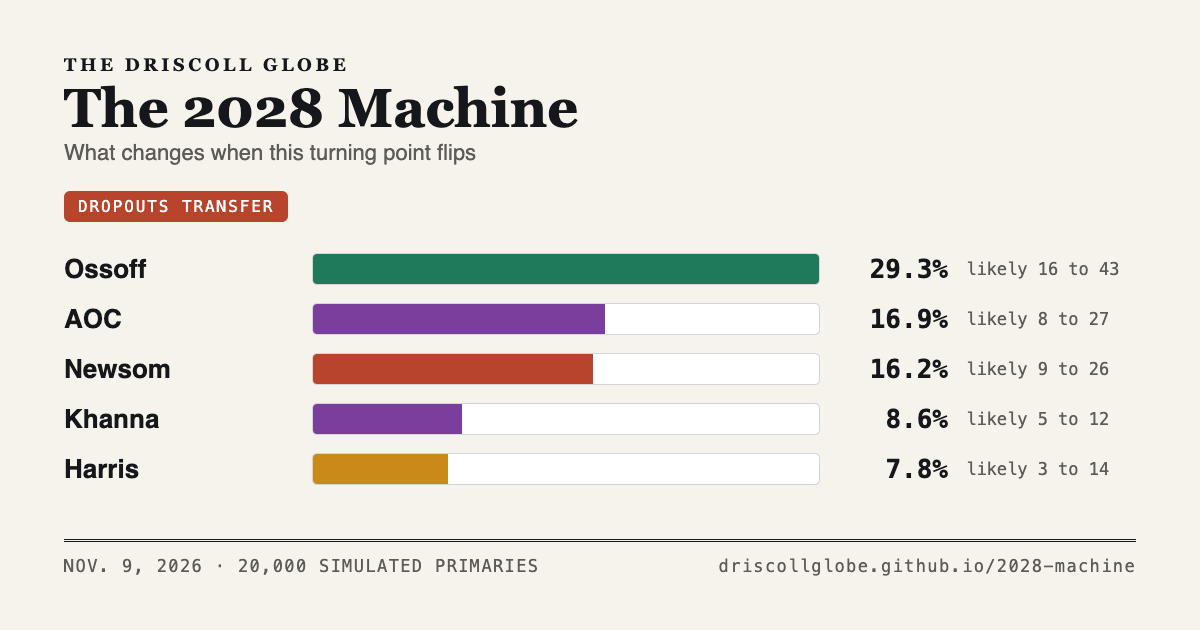
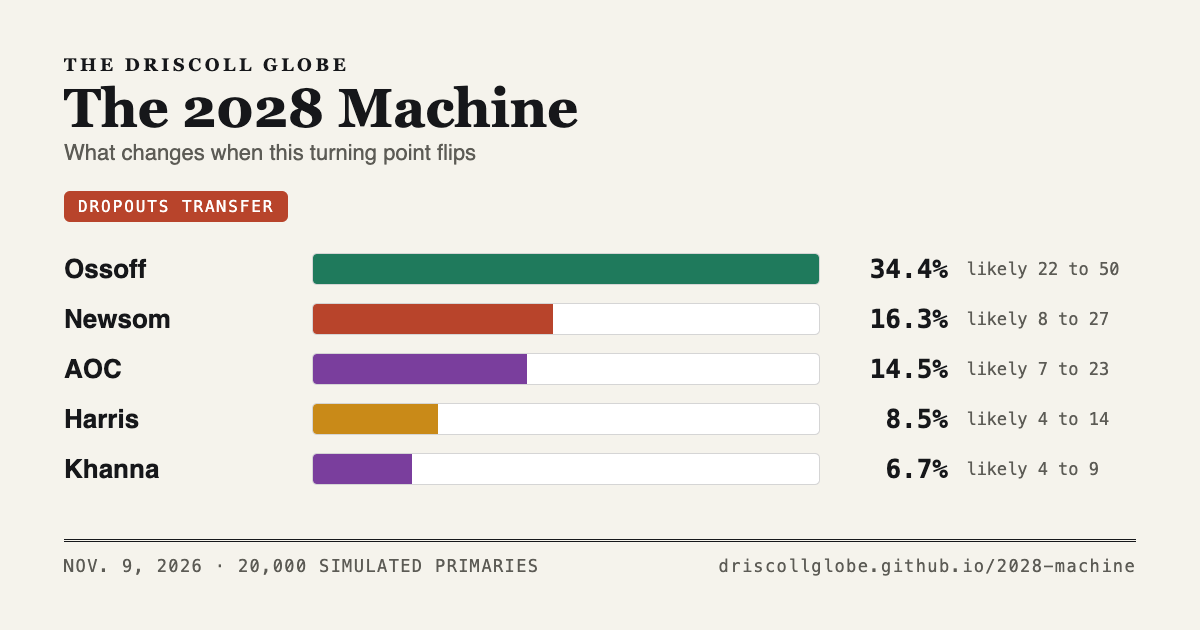
Regenerate default, heatmap, rankings, cards, desk note and methodology after phase 2; STATUS
Final 2026-11-09 run on the whole stack: AOC 24.1 (likely 14 to 35), Ossoff 23.7 (13 to 37),
Newsom 18.6 (8 to 32), Khanna 7.8 (6 to 10), Harris 5.7 (3 to 10); convention 11.2. The reader
sentence for 2026-11-09 in notes/changes.json now covers the ranges. history.csv is left to the
nightly run, which should carry a note.

diff --git a/methodology.html b/methodology.html
@@ -117,7 +117,7 @@ a{color:var(--accent);}
 
 <h2 id="ranges">How sure the model is</h2>
 <p>Our own estimates are guesses. How strong each candidate starts and how big each pool of voters is come from reporting and judgment, not from data, so the model does not treat them as known. Every run redraws them. Each candidate's starting strength is multiplied by a random factor centered on 1, where one standard deviation is 30 percent up or down. Each pool's share of the electorate gets its own factor of the same size, and the pools are rescaled so they still add to 100. The market prices are never redrawn.</p>
-<p>Runs come in batches of 100 that share one draw. Each batch gives every candidate a share of first-place finishes, so 20,000 runs give 200 shares. The range under the headline and beside each bar runs from the 10th to the 90th of those, after taking out the coin-flip noise that any 100 races carry on their own. Read "Ossoff 24%, likely 13 to 40" as: our best number is 24, and if our estimates of the candidates are off by the amount we think they could be, he lands between 13 and 40 eight times in ten.</p>
+<p>Runs come in batches of 100 that share one draw. Each batch gives every candidate a share of first-place finishes, so 20,000 runs give 200 shares. The range under the headline and beside each bar runs from the 10th to the 90th of those, after taking out the coin-flip noise that any 100 races carry on their own. On the Nov. 9, 2026 run the page reads "AOC 24%, likely 14 to 35." Read that as: our best number is 24, and if our estimates of the candidates are off by the amount we think they could be, she lands between 14 and 35 eight times in ten. Ossoff, at 24 and likely 13 to 37, is inside that range, so the model can't tell you which of them leads.</p>
 <p>The model gets more certain as South Carolina nears, and it does this on purpose: each morning it allows fewer surprise events and redraws our estimates of the candidates less, until on the eve of the first primary those draws are a third as wide as they are today.</p>
 
 <h2 id="longshot">Correcting the market prices</h2>

diff --git a/share/iowa.html b/share/iowa.html
@@ -4,7 +4,7 @@
 <meta charset="utf-8">
 <title>The 2028 Machine: Iowa crashes the window</title>
 <meta property="og:title" content="The 2028 Machine: Iowa crashes the window">
-<meta property="og:description" content="Iowa crashes the window: AOC 26.8% (likely 16 to 37), Buttigieg 14.3% (likely 8 to 21), Khanna 13.6% (likely 10 to 18), Newsom 12.5% (likely 5 to 23), Ossoff 10.0% (likely 5 to 18) (Nov. 9, 2026).">
+<meta property="og:description" content="Iowa crashes the window: AOC 27.7% (likely 19 to 38), Buttigieg 15.0% (likely 8 to 23), Newsom 13.2% (likely 6 to 23), Khanna 12.5% (likely 9 to 16), Ossoff 10.5% (likely 5 to 18) (Nov. 9, 2026).">
 <meta property="og:type" content="website">
 <meta property="og:url" content="https://driscollglobe.github.io/2028-machine/share/iowa.html">
 <meta property="og:image" content="https://driscollglobe.github.io/2028-machine/cards/iowa.png">

diff --git a/share/approval.html b/share/approval.html
@@ -4,7 +4,7 @@
 <meta charset="utf-8">
 <title>The 2028 Machine: Trump approval high</title>
 <meta property="og:title" content="The 2028 Machine: Trump approval high">
-<meta property="og:description" content="Trump approval high: Ossoff 29.1% (likely 17 to 42), Newsom 24.1% (likely 13 to 35), AOC 12.5% (likely 5 to 21), Harris 6.9% (likely 3 to 13), Buttigieg 5.3% (likely 3 to 9) (Nov. 9, 2026).">
+<meta property="og:description" content="Trump approval high: Ossoff 30.9% (likely 19 to 43), Newsom 24.5% (likely 14 to 37), AOC 11.8% (likely 5 to 19), Harris 7.3% (likely 3 to 12), Buttigieg 5.7% (likely 3 to 9) (Nov. 9, 2026).">
 <meta property="og:type" content="website">
 <meta property="og:url" content="https://driscollglobe.github.io/2028-machine/share/approval.html">
 <meta property="og:image" content="https://driscollglobe.github.io/2028-machine/cards/approval.png">

diff --git a/share/calendar.html b/share/calendar.html
@@ -4,7 +4,7 @@
 <meta charset="utf-8">
 <title>The 2028 Machine: NH jumps the line</title>
 <meta property="og:title" content="The 2028 Machine: NH jumps the line">
-<meta property="og:description" content="NH jumps the line: AOC 25.7% (likely 16 to 36), Newsom 15.4% (likely 7 to 27), Ossoff 14.6% (likely 7 to 24), Buttigieg 11.3% (likely 6 to 18), Khanna 10.3% (likely 8 to 13) (Nov. 9, 2026).">
+<meta property="og:description" content="NH jumps the line: AOC 27.1% (likely 17 to 38), Ossoff 15.7% (likely 8 to 25), Newsom 15.3% (likely 7 to 25), Buttigieg 10.7% (likely 7 to 15), Khanna 9.5% (likely 7 to 12) (Nov. 9, 2026).">
 <meta property="og:type" content="website">
 <meta property="og:url" content="https://driscollglobe.github.io/2028-machine/share/calendar.html">
 <meta property="og:image" content="https://driscollglobe.github.io/2028-machine/cards/calendar.png">

diff --git a/share/coordfail.html b/share/coordfail.html
@@ -4,7 +4,7 @@
 <meta charset="utf-8">
 <title>The 2028 Machine: Coordination fails</title>
 <meta property="og:title" content="The 2028 Machine: Coordination fails">
-<meta property="og:description" content="Coordination fails: AOC 25.2% (likely 15 to 36), Ossoff 22.1% (likely 10 to 38), Newsom 17.4% (likely 7 to 30), Khanna 9.8% (likely 8 to 13), Harris 4.8% (likely 2 to 9) (Nov. 9, 2026).">
+<meta property="og:description" content="Coordination fails: AOC 26.5% (likely 16 to 37), Ossoff 23.4% (likely 13 to 37), Newsom 18.5% (likely 9 to 30), Khanna 8.5% (likely 5 to 12), Harris 4.4% (likely 2 to 7) (Nov. 9, 2026).">
 <meta property="og:type" content="website">
 <meta property="og:url" content="https://driscollglobe.github.io/2028-machine/share/coordfail.html">
 <meta property="og:image" content="https://driscollglobe.github.io/2028-machine/cards/coordfail.png">

diff --git a/share/afford.html b/share/afford.html
@@ -4,7 +4,7 @@
 <meta charset="utf-8">
 <title>The 2028 Machine: Affordability race</title>
 <meta property="og:title" content="The 2028 Machine: Affordability race">
-<meta property="og:description" content="Affordability race: AOC 33.8% (likely 23 to 45), Ossoff 18.1% (likely 8 to 31), Newsom 14.8% (likely 6 to 23), Khanna 10.7% (likely 8 to 14), Harris 4.3% (likely 2 to 9) (Nov. 9, 2026).">
+<meta property="og:description" content="Affordability race: AOC 33.7% (likely 21 to 46), Ossoff 19.3% (likely 9 to 31), Newsom 15.5% (likely 7 to 27), Khanna 9.1% (likely 5 to 13), Harris 4.5% (likely 2 to 8) (Nov. 9, 2026).">
 <meta property="og:type" content="website">
 <meta property="og:url" content="https://driscollglobe.github.io/2028-machine/share/afford.html">
 <meta property="og:image" content="https://driscollglobe.github.io/2028-machine/cards/afford.png">

diff --git a/share/dropout.html b/share/dropout.html
@@ -4,7 +4,7 @@
 <meta charset="utf-8">
 <title>The 2028 Machine: Dropouts transfer</title>
 <meta property="og:title" content="The 2028 Machine: Dropouts transfer">
-<meta property="og:description" content="Dropouts transfer: Ossoff 29.3% (likely 16 to 43), AOC 16.9% (likely 8 to 27), Newsom 16.2% (likely 9 to 26), Khanna 8.6% (likely 5 to 12), Harris 7.8% (likely 3 to 14) (Nov. 9, 2026).">
+<meta property="og:description" content="Dropouts transfer: Ossoff 34.4% (likely 22 to 50), Newsom 16.3% (likely 8 to 27), AOC 14.5% (likely 7 to 23), Harris 8.5% (likely 4 to 14), Khanna 6.7% (likely 4 to 9) (Nov. 9, 2026).">
 <meta property="og:type" content="website">
 <meta property="og:url" content="https://driscollglobe.github.io/2028-machine/share/dropout.html">
 <meta property="og:image" content="https://driscollglobe.github.io/2028-machine/cards/dropout.png">

diff --git a/share/newsom.html b/share/newsom.html
@@ -4,7 +4,7 @@
 <meta charset="utf-8">
 <title>The 2028 Machine: Newsom scrutiny</title>
 <meta property="og:title" content="The 2028 Machine: Newsom scrutiny">
-<meta property="og:description" content="Newsom scrutiny: AOC 26.6% (likely 15 to 38), Ossoff 24.6% (likely 13 to 38), Khanna 9.8% (likely 8 to 13), Newsom 8.0% (likely 3 to 14), Harris 6.5% (likely 2 to 13) (Nov. 9, 2026).">
+<meta property="og:description" content="Newsom scrutiny: Ossoff 27.2% (likely 16 to 39), AOC 26.8% (likely 17 to 38), Khanna 8.7% (likely 6 to 11), Newsom 7.8% (likely 3 to 13), Harris 6.4% (likely 3 to 11) (Nov. 9, 2026).">
 <meta property="og:type" content="website">
 <meta property="og:url" content="https://driscollglobe.github.io/2028-machine/share/newsom.html">
 <meta property="og:image" content="https://driscollglobe.github.io/2028-machine/cards/newsom.png">

diff --git a/share/harris.html b/share/harris.html
@@ -4,7 +4,7 @@
 <meta charset="utf-8">
 <title>The 2028 Machine: Harris polls</title>
 <meta property="og:title" content="The 2028 Machine: Harris polls">
-<meta property="og:description" content="Harris polls: AOC 22.6% (likely 12 to 35), Harris 21.6% (likely 10 to 35), Newsom 17.2% (likely 7 to 31), Ossoff 15.5% (likely 7 to 27), Khanna 8.1% (likely 5 to 11) (Nov. 9, 2026).">
+<meta property="og:description" content="Harris polls: Harris 23.6% (likely 12 to 39), AOC 23.2% (likely 13 to 34), Newsom 17.0% (likely 7 to 27), Ossoff 15.6% (likely 7 to 27), Khanna 7.1% (likely 6 to 9) (Nov. 9, 2026).">
 <meta property="og:type" content="website">
 <meta property="og:url" content="https://driscollglobe.github.io/2028-machine/share/harris.html">
 <meta property="og:image" content="https://driscollglobe.github.io/2028-machine/cards/harris.png">

diff --git a/share/aoc.html b/share/aoc.html
@@ -4,7 +4,7 @@
 <meta charset="utf-8">
 <title>The 2028 Machine: AOC decision</title>
 <meta property="og:title" content="The 2028 Machine: AOC decision">
-<meta property="og:description" content="AOC decision: AOC 28.4% (likely 17 to 39), Ossoff 19.2% (likely 8 to 33), Newsom 14.3% (likely 6 to 25), Khanna 12.7% (likely 9 to 16), Harris 4.6% (likely 1 to 9) (Nov. 9, 2026).">
+<meta property="og:description" content="AOC decision: AOC 28.5% (likely 19 to 38), Ossoff 21.2% (likely 11 to 32), Newsom 15.4% (likely 6 to 26), Khanna 11.1% (likely 8 to 14), Harris 4.8% (likely 2 to 9) (Nov. 9, 2026).">
 <meta property="og:type" content="website">
 <meta property="og:url" content="https://driscollglobe.github.io/2028-machine/share/aoc.html">
 <meta property="og:image" content="https://driscollglobe.github.io/2028-machine/cards/aoc.png">

diff --git a/share/ai.html b/share/ai.html
@@ -4,7 +4,7 @@
 <meta charset="utf-8">
 <title>The 2028 Machine: AI economy</title>
 <meta property="og:title" content="The 2028 Machine: AI economy">
-<meta property="og:description" content="AI economy: Khanna 34.2% (likely 26 to 43), Ossoff 20.7% (likely 10 to 34), Newsom 15.6% (likely 7 to 27), AOC 7.4% (likely 4 to 12), Harris 4.9% (likely 2 to 9) (Nov. 9, 2026).">
+<meta property="og:description" content="AI economy: Khanna 31.9% (likely 24 to 39), Ossoff 23.4% (likely 14 to 36), Newsom 15.9% (likely 8 to 27), AOC 6.9% (likely 4 to 11), Buttigieg 5.7% (likely 3 to 9) (Nov. 9, 2026).">
 <meta property="og:type" content="website">
 <meta property="og:url" content="https://driscollglobe.github.io/2028-machine/share/ai.html">
 <meta property="og:image" content="https://driscollglobe.github.io/2028-machine/cards/ai.png">

diff --git a/docs/STATUS.md b/docs/STATUS.md
@@ -1,30 +1,57 @@
 # Status
 
-Updated 2026-11-09, evening. The post-midterm stack (PRs #4 to #19) is merged into main. The publication pass is open as one PR on `publication-pass`, based on main. Nothing else is in flight.
+Updated 2026-11-09, night. Phase 2 (make the model defensible to a Silver-style reader) is six stacked PRs. Nothing is merged. Each PR's base is the one before it, and the first sits on #22 (footer-crowding-note), which is also still open.
 
-## Default run on the 2026-11-09 books (20,000 runs, anchor 50, publication-pass branch)
-| | First place |
-|---|---|
-| Ossoff | 35.0 |
-| Newsom | 16.4 |
-| AOC | 15.5 |
-| Harris | 13.7 |
-| Khanna | 4.7 |
+## Stack order
+| # | PR | Branch | Base |
+|---|---|---|---|
+| 1 | #23 Iowa swing | `iowa-swing` | `footer-crowding-note` (#22) |
+| 2 | #24 Drawn priors | `drawn-priors` | `iowa-swing` |
+| 3 | #25 Long-shot correction | `longshot` | `drawn-priors` |
+| 4 | #26 Weighted polls | `weighted-polls` | `longshot` |
+| 5 | #27 The clock | `clock` | `weighted-polls` |
+| 6 | #28 Freeze the knobs, plus the final regeneration | `freeze-knobs` | `clock` |
 
-11.8 percent of runs reach the convention without a pledged majority (37.7 before). Ballot breakdown: 88.2 first ballot, 6.3 second, 3.1 third, 1.5 fourth, 1.0 plurality.
+Merge in that order: #22 first, then #23 to #28. The final regeneration (default.json, wire.json, heatmap, rankings, cards, share pages, desk note, methodology page, notes/changes.json) is the last commit on `freeze-knobs`.
 
-## What the publication pass changed
-* Calls C1 to C3 replaced before locking: AOC above Ossoff in the blend, Ossoff run odds 85, Harris poll gap under 10, all by 2027-06-30. New metric forms: `a-b` differences and `gap.<id>` (default.json `gap`).
-* Lane crowding 0.15 to 0.05. Khanna falls to 4.7 with his base back at 5 (it was briefly 0.5 earlier on 2026-11-09).
-* Field rules (`SIMRULES` in index.html): top two after Super Tuesday (was three), dropout line 0.11 (was 0.07; 0.09 when coordination fails, was 0.05). Coordination and transfer defaults unchanged. methodology_run.js pins the old rules and crowding for the seed 5 example.
-* Bracket box: "No accounts. Saving adds your numbers, anonymously, to the Globe readers column." The footer line about reader brackets stays, since the worker is live.
-* Reader-facing dates are editorial. ISO stays in data, code, URLs and changelog.html.
-* Byline, plain captions, dateline review stamps, a wire with no parameter names, a desk note that leads with who moved.
-* Model changes reach readers through notes/changes.json (one plain sentence each) and changelog.html. The history.csv note column stays internal shorthand.
+## Default top five, 2026-11-09 books, 20,000 runs
+| | Before the stack (main plus #22) | After the stack |
+|---|---|---|
+| 1 | Ossoff 29.3 | AOC 24.1, likely 14 to 35 |
+| 2 | AOC 20.4 | Ossoff 23.7, likely 13 to 37 |
+| 3 | Newsom 19.0 | Newsom 18.6, likely 8 to 32 |
+| 4 | Harris 11.4 | Khanna 7.8, likely 6 to 10 |
+| 5 | Khanna 5.7 | Harris 5.7, likely 3 to 10 |
+
+There were no ranges before the stack. "Likely" is the 10th to 90th percentile across 200 prior draws.
+
+Convention rate (runs that reach the convention without a pledged majority): 11.3 before, 11.2 after. Ballots after: 88.8 first, 5.4 second, 2.4 third, 0.9 fourth, 2.5 plurality.
+
+Step by step: #23 AOC 25.0, Ossoff 22.7, Newsom 18.3, Khanna 9.6, Harris 5.0 (10.6). #24 Ossoff 24.1, AOC 23.4, Newsom 17.5, Khanna 9.2, Harris 5.3 (10.1). #25 AOC 24.1, Ossoff 23.7, Newsom 18.6, Khanna 7.8, Harris 5.7 (11.2). #26 to #28 leave it unchanged.
+
+## Iowa swing
+| | Before | After #23 | After the stack |
+|---|---|---|---|
+| Heatmap, Buttigieg, Iowa crashes the window | +71.1 | +11.0 | +12.0 |
+| Heatmap, biggest mover on the Iowa row | Buttigieg +71.1 | Ossoff -13.1 | Ossoff -13.7 |
+| Heatmap, Buttigieg, NH jumps the line | +55.7 | +7.6 | +7.7 |
+| iowa_trace.js swing (4,000 matched seeds) | 71.2 | 22.2 | 11.0 |
+
+Momentum was not the driver (with it off the old swing was 72.5). The calendar bonus applied all season and the 1.5 Iowa and NH fits were. Kevin chose a 1.2 cap on any one contest's multiplier, with the calendar bonus in the early window only.
+
+## Biggest mover per heatmap row, after the stack
+AOC runs: AOC +42.5. NH jumps the line: Ossoff -9.1. Iowa: Ossoff -13.7. AI: AOC -15.1. Affordability: AOC +30.2. Newsom scrutiny: Newsom +25.6. Polls right on Harris: Harris +16.5. Coordination fails: AOC +1.9. Dropout transfer: Ossoff +19.5. Trump approval high: AOC -13.1.
 
 ## Waiting on Kevin
-Merge PR #20 before midnight ET on 2026-11-09. After that, main's old calls C1 to C3 lock and the calls lock check fails on the push to main.
+* Review and merge #22, then #23 to #28 in order.
+* On the day it lands, run the nightly workflow by hand with a `note` (no commas), so history.csv marks the structural change. The final regeneration leaves history.csv to that run.
+* "Transfer share" in the knob list was read as the secondary pool transfer weight (0.5, now `SIMRULES.pool2Weight`), since dropout transfer (35) and field leak (30) are listed separately. Say if you meant something else.
 
 ## Known loose ends
+* Three levers still move one candidate more than 25 points: AOC runs (AOC 42.5), Affordability (AOC 30.2), Newsom scrutiny (Newsom 25.6). Kevin scoped the 25-point rule to the calendar levers.
+* The ranges are wider than the "22 to 36" example in the brief. A 30 percent sigma on strength is a big draw because first-place share rises roughly with strength to the fifth power. The clock narrows it to 10 percent by the eve of South Carolina.
+* With drawn priors, seed noise on a point estimate is about a point. AOC and Ossoff swap first place on different seeds. The default card now reads default.json so the page and the card agree.
+* Call C3 (Harris poll minus market gap under 10) is now graded against the weighted poll average. Today's gap is 15.4 (15.6 on the old method).
+* index.html now loads one external script, pollavg.js, shared with gap.html and the nightly job. The sim stays inline.
+* The 2020 backtest (backtest-2020/) runs the current sim, which now has drawn priors, a state cap and the clock. It was not rerun.
 * `notes.json` on the gap page is hand-written and stale.
-* The desk note demo uses today's convention rate for every past day.
